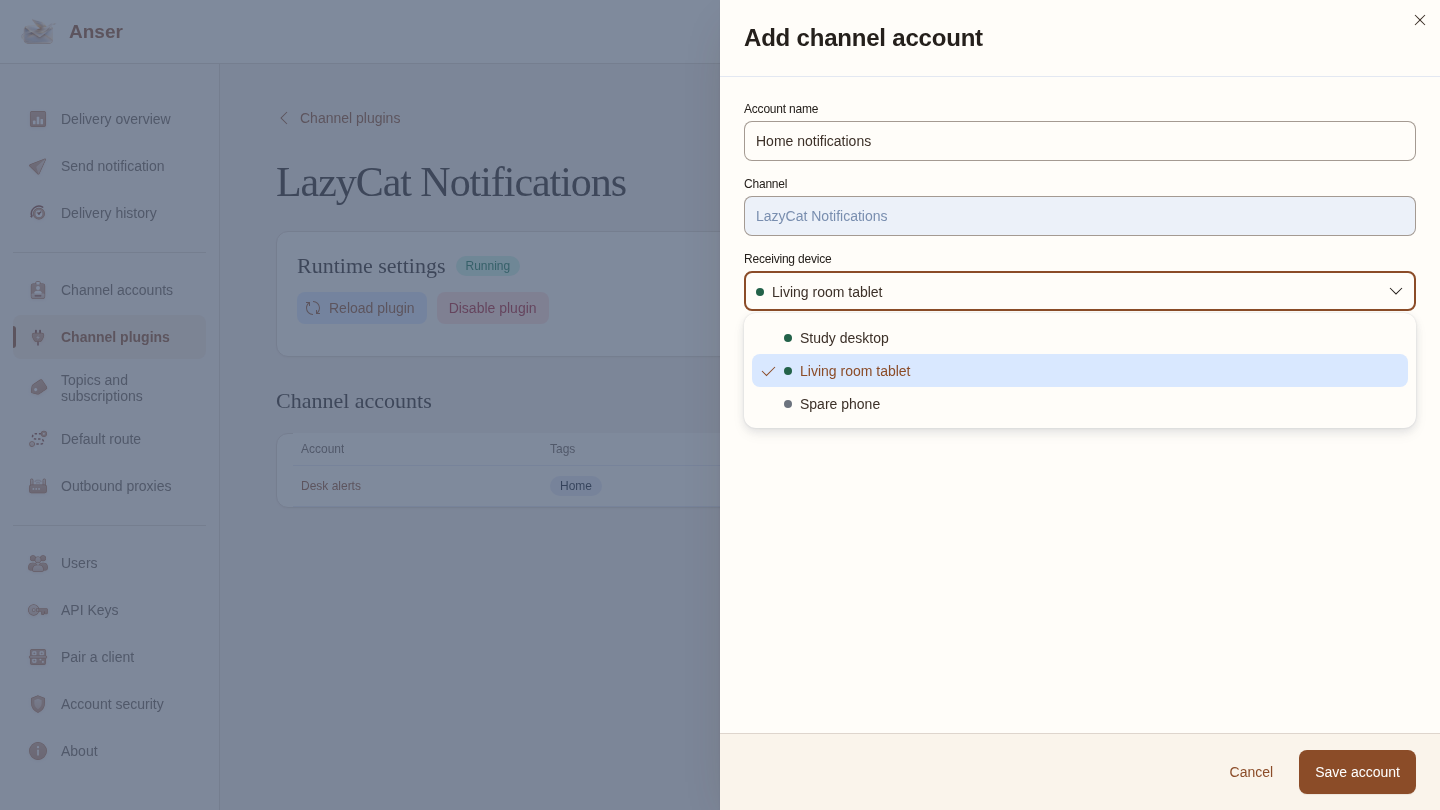
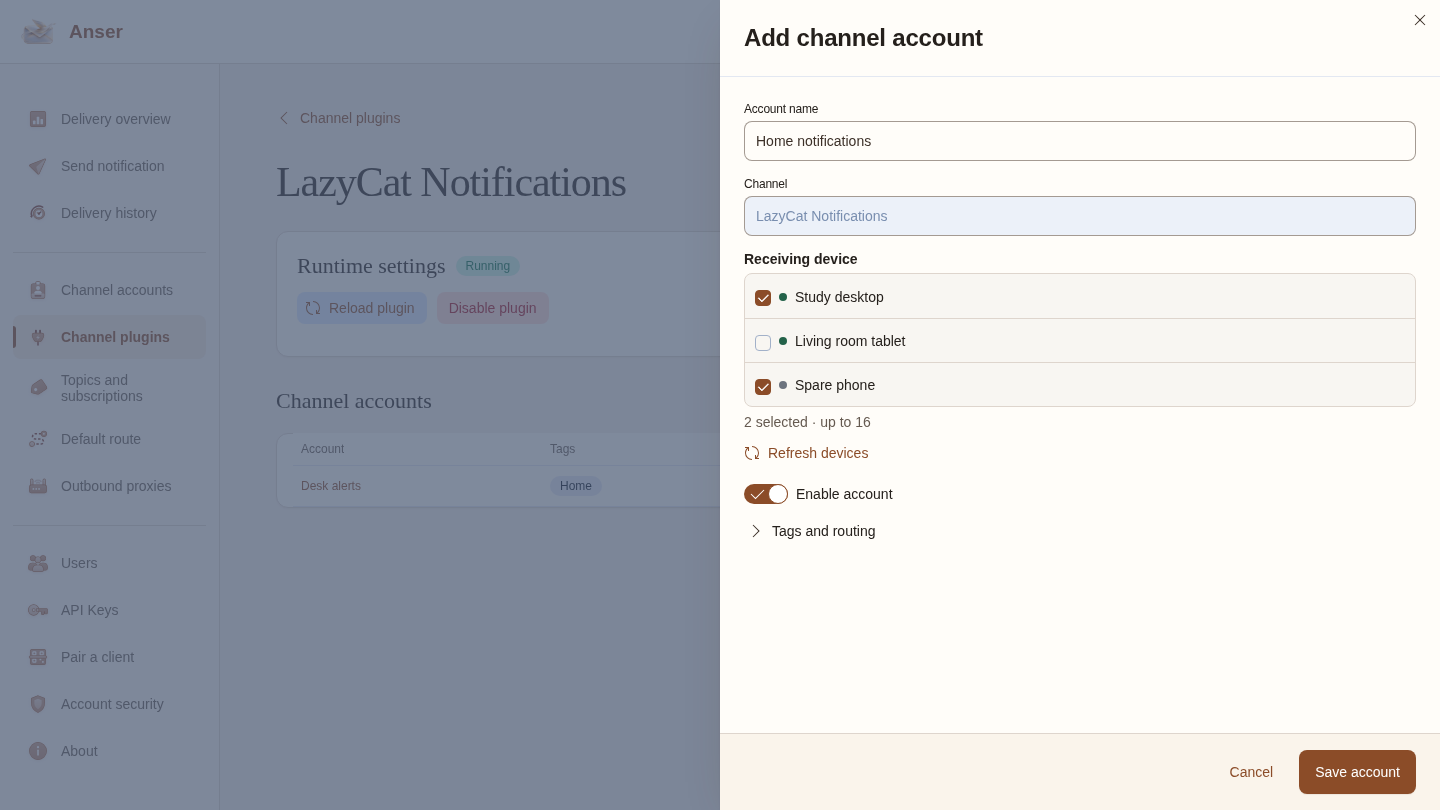
Release Anser 0.5.6 with LazyCat device groups
Keep notification plugin versions independent and refresh screenshots of the device group picker. Verified with Rust, Web, NSH and native screenshot tests.

Changed region(s): [[0.5, 0.3086, 1.0, 0.6173], [0.5312, 0.6481, 0.625, 0.679]]

diff --git a/README.en.md b/README.en.md
@@ -101,7 +101,7 @@ The delivery overview shows the queue, successful deliveries, dead letters, and 
 
 ![Sending a notification in the native client](docs/screenshots/en/nsh-compose.png)
 
-![Choosing a LazyCat device in the native client (sample devices)](docs/screenshots/en/nsh-account-device.png)
+![Selecting a group of LazyCat devices in the native client (sample devices)](docs/screenshots/en/nsh-account-device.png)
 
 ![Channel plugin settings in the native client](docs/screenshots/en/nsh-plugin.png)
 
@@ -153,4 +153,4 @@ Open Anser through your signed-in LazyCat app and create a LazyCat channel accou
 | `ANSER_MAX_TTL_SECONDS` / `ANSER_RETENTION_DAYS` | 86,400-second TTL limit and 30-day record retention |
 | `ANSER_QUEUE_LIMIT` / `ANSER_REQUESTS_PER_MINUTE` | 10,000 pending routes and 120,000 requests per credential per minute |
 
-The Rust workspace, Web console, and NSH client share one `x.y.z` version. A matching `vX.Y.Z` tag builds Linux amd64 and arm64 images for GHCR and publishes Docker archives, server binaries, NSH packages, and SHA-256 checksums to GitHub Releases.
+The server, Web console, and NSH client share one `x.y.z` version. Each notification channel plugin maintains its own version. A matching `vX.Y.Z` tag builds Linux amd64 and arm64 images for GHCR and publishes Docker archives, server binaries, NSH packages, and SHA-256 checksums to GitHub Releases.

diff --git a/README.md b/README.md
@@ -101,7 +101,7 @@ ANSER_REQUIRE_WEB=1 cargo build --locked --release -p anser-server
 
 ![原生客户端发送通知](docs/screenshots/zh-CN/nsh-compose.png)
 
-![原生客户端选择懒猫设备（演示设备）](docs/screenshots/zh-CN/nsh-account-device.png)
+![在原生客户端勾选一组懒猫设备（演示设备）](docs/screenshots/zh-CN/nsh-account-device.png)
 
 ![原生客户端的插件设置](docs/screenshots/zh-CN/nsh-plugin.png)
 
@@ -153,4 +153,4 @@ ANSER_REQUIRE_WEB=1 cargo build --locked --release -p anser-server
 | `ANSER_MAX_TTL_SECONDS` / `ANSER_RETENTION_DAYS` | 默认 86400 秒上限、30 天记录保留 |
 | `ANSER_QUEUE_LIMIT` / `ANSER_REQUESTS_PER_MINUTE` | 默认 10000 个待处理路线、每凭据每分钟 120000 次请求 |
 
-保持 `Cargo.toml`、Web 和 NSH 客户端版本为同一 `x.y.z` 值。GitHub Actions 在匹配的 `vX.Y.Z` 标签构建 GHCR 的 Linux amd64/arm64 镜像，并随 GitHub Release 发布 Docker 镜像归档、服务端多平台二进制、独立 NSH 客户端包及 SHA-256 校验和。
+服务端、Web 管理台和 NSH 客户端使用同一个 `x.y.z` 版本，渠道插件各自维护版本。GitHub Actions 在匹配的 `vX.Y.Z` 标签构建 GHCR 的 Linux amd64/arm64 镜像，并随 GitHub Release 发布 Docker 镜像归档、服务端多平台二进制、独立 NSH 客户端包及 SHA-256 校验和。
